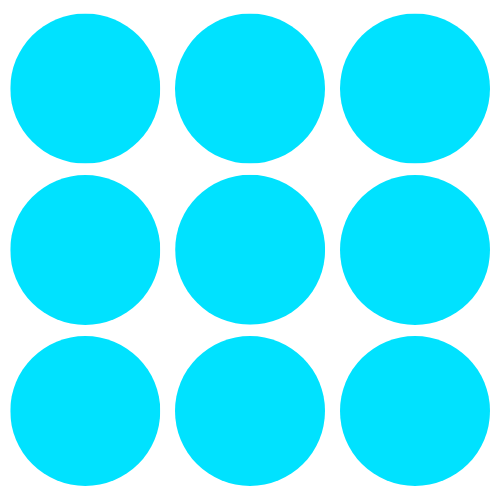
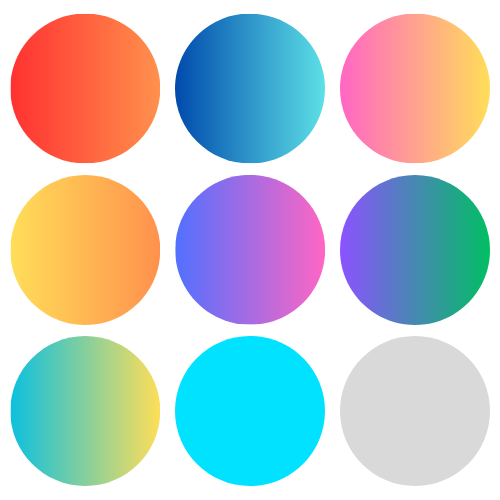
Mobile Menu

diff --git a/src/app/(main)/MenuBar.tsx b/src/app/(main)/MenuBar.tsx
@@ -9,7 +9,13 @@ import NotificationsButton from "./NotificationsButton";
 import Image from "next/image";
 import home from "@/assets/home.png";
 import lessons from "@/assets/lessons.png";
-import library from "@/assets/library.png";
+import library from "@/assets/My Library.png";
+import tv from "@/assets/TV.png";
+import music from "@/assets/Music.png";
+import reading from "@/assets/Reading.png";
+import learngo from "@/assets/Learn on the go.png";
+import translator from "@/assets/Translator.png";
+import settings from "@/assets/Settings.png";
 import UserButton from "@/components/UserButton";
 
 interface MenuBarProps {
@@ -69,6 +75,89 @@ export default async function MenuBar({ className, id }: MenuBarProps) {
       <Button
         variant="ghost"
         className="flex items-center justify-start gap-3"
+        title="Learn on the Go"
+        asChild
+      >
+        <Link href="/audio-lessons">
+          <Image
+            src={learngo} // Add your image in the public/icons directory
+            alt="Learn on the Go"
+            width={32}
+            height={32}
+          />
+          <span className="hidden lg:inline">Learn Go</span>
+        </Link>
+      </Button>
+      <Button
+        variant="ghost"
+        className="flex items-center justify-start gap-3"
+        title="TV"
+        asChild
+      >
+        <Link href="/tv">
+          <Image
+            src={tv} // Add your image in the public/icons directory
+            alt="TV"
+            width={32}
+            height={32}
+          />
+          <span className="hidden lg:inline">TV</span>
+        </Link>
+      </Button>
+      <Button
+        variant="ghost"
+        className="flex items-center justify-start gap-3"
+        title="Music"
+        asChild
+      >
+        <Link href="/music-lyrics">
+          <Image
+            src={music} // Add your image in the public/icons directory
+            alt="Music"
+            width={32}
+            height={32}
+          />
+          <span className="hidden lg:inline">Music</span>
+        </Link>
+      </Button>
+
+      <Button
+        variant="ghost"
+        className="flex items-center justify-start gap-3"
+        title="Reading"
+        asChild
+      >
+        <Link href="/reading">
+          <Image
+            src={reading} // Add your image in the public/icons directory
+            alt="Reading"
+            width={32}
+            height={32}
+          />
+          <span className="hidden lg:inline">Reading</span>
+        </Link>
+      </Button>
+
+      <Button
+        variant="ghost"
+        className="flex items-center justify-start gap-3"
+        title="Translator"
+        asChild
+      >
+        <Link href="/translator">
+          <Image
+            src={translator} // Add your image in the public/icons directory
+            alt="Translator"
+            width={32}
+            height={32}
+          />
+          <span className="hidden lg:inline">Translator</span>
+        </Link>
+      </Button>
+
+      <Button
+        variant="ghost"
+        className="flex items-center justify-start gap-3"
         title="Bookmarks"
         asChild
       >
@@ -80,6 +169,23 @@ export default async function MenuBar({ className, id }: MenuBarProps) {
             height={32}
           />
           <span className="hidden lg:inline">Bookmarks</span>
+        </Link>
+      </Button>
+
+      <Button
+        variant="ghost"
+        className="flex items-center justify-start gap-3"
+        title="Settings"
+        asChild
+      >
+        <Link href="/settings">
+          <Image
+            src={settings} // Add your image in the public/icons directory
+            alt="Home"
+            width={32}
+            height={32}
+          />
+          <span className="hidden lg:inline">Settings</span>
         </Link>
       </Button>
 

diff --git a/src/components/MobileMenu.tsx b/src/components/MobileMenu.tsx
@@ -6,9 +6,16 @@ import Link from "next/link";
 import Image from "next/image";
 import home from "@/assets/home.png";
 import lessons from "@/assets/lessons.png";
-import library from "@/assets/library.png";
+import library from "@/assets/My Library.png";
 import UserButton from "./UserButton";
 import menuIcon from "@/assets/Mobile Menu.png";
+import tv from "@/assets/TV.png";
+import music from "@/assets/Music.png";
+import reading from "@/assets/Reading.png";
+import learngo from "@/assets/Learn on the go.png";
+import translator from "@/assets/Translator.png";
+import settings from "@/assets/Settings.png";
+
 
 export default function MobileMenu() {
   return (
@@ -44,9 +51,39 @@ export default function MobileMenu() {
               <span className="text-sm">Courses</span>
             </Link>
 
+            <Link href="/audio-lessons" className="flex flex-col items-center justify-center gap-1">
+              <Image src={learngo} alt="Learn on the Go" width={40} height={40} />
+              <span className="text-sm">Learn Go</span>
+            </Link>
+
+            <Link href="/tv" className="flex flex-col items-center justify-center gap-1">
+              <Image src={tv} alt="TV" width={40} height={40} />
+              <span className="text-sm">TV</span>
+            </Link>
+
+            <Link href="/music" className="flex flex-col items-center justify-center gap-1">
+              <Image src={music} alt="Music" width={40} height={40} />
+              <span className="text-sm">Music</span>
+            </Link>
+
+            <Link href="/reading" className="flex flex-col items-center justify-center gap-1">
+              <Image src={reading} alt="Reading" width={40} height={40} />
+              <span className="text-sm">Reading</span>
+            </Link>
+
+            <Link href="/translator" className="flex flex-col items-center justify-center gap-1">
+              <Image src={translator} alt="Translator" width={40} height={40} />
+              <span className="text-sm">Translator</span>
+            </Link>
+
             <Link href="/bookmarks" className="flex flex-col items-center justify-center gap-1">
               <Image src={library} alt="Bookmarks" width={40} height={40} />
               <span className="text-sm">Bookmarks</span>
+            </Link>
+
+            <Link href="/settings" className="flex flex-col items-center justify-center gap-1">
+              <Image src={settings} alt="Settings" width={40} height={40} />
+              <span className="text-sm">Settings</span>
             </Link>
 
             <Link href="/profile" className="flex flex-col items-center justify-center gap-1">
